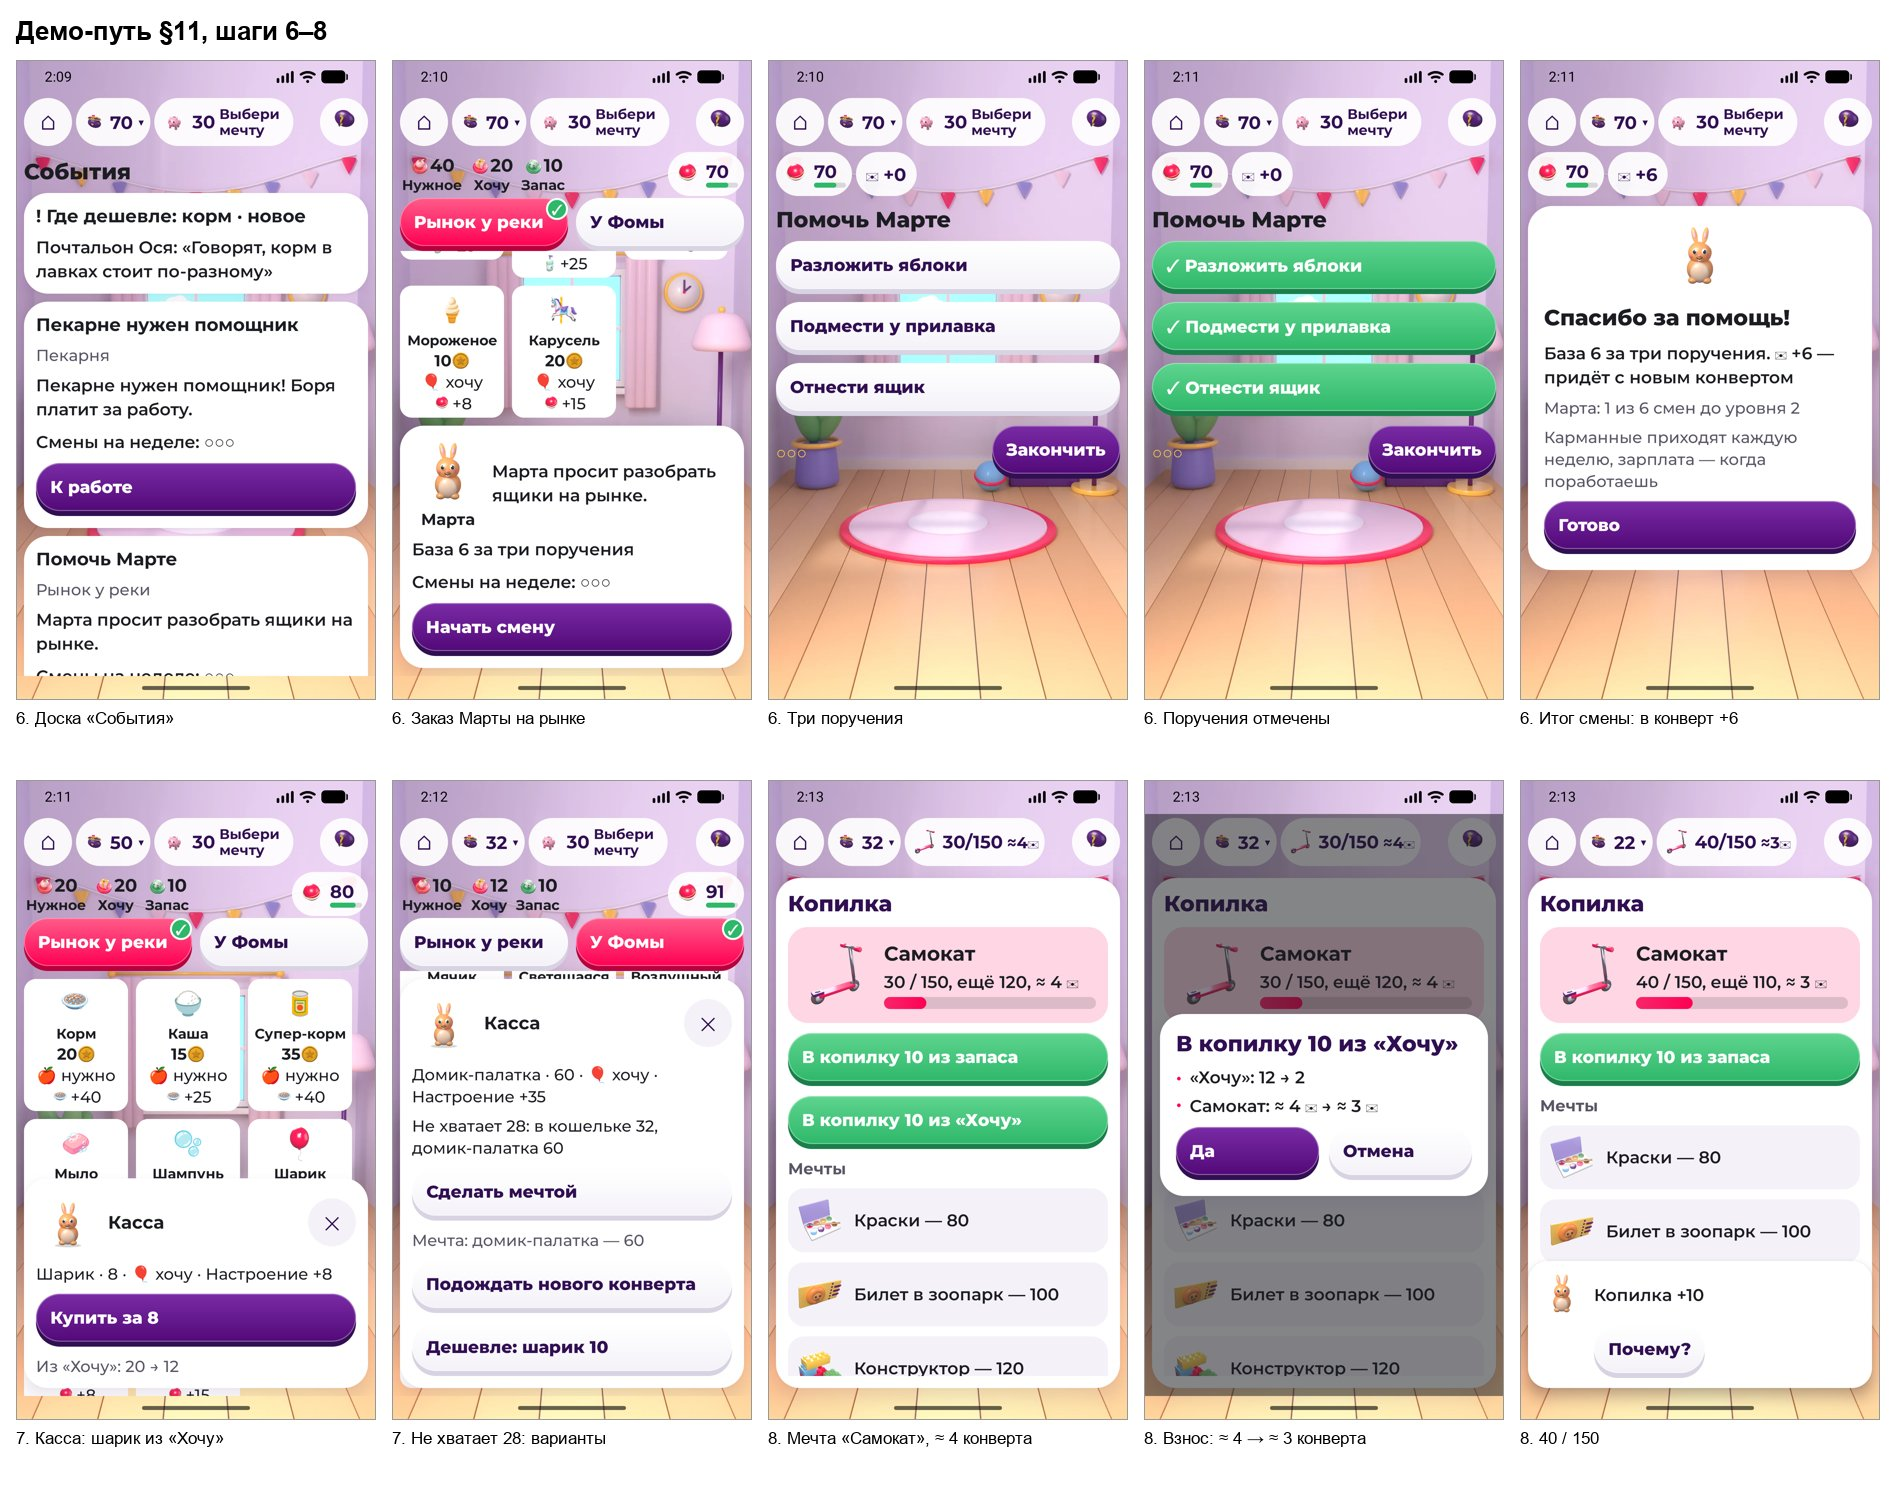
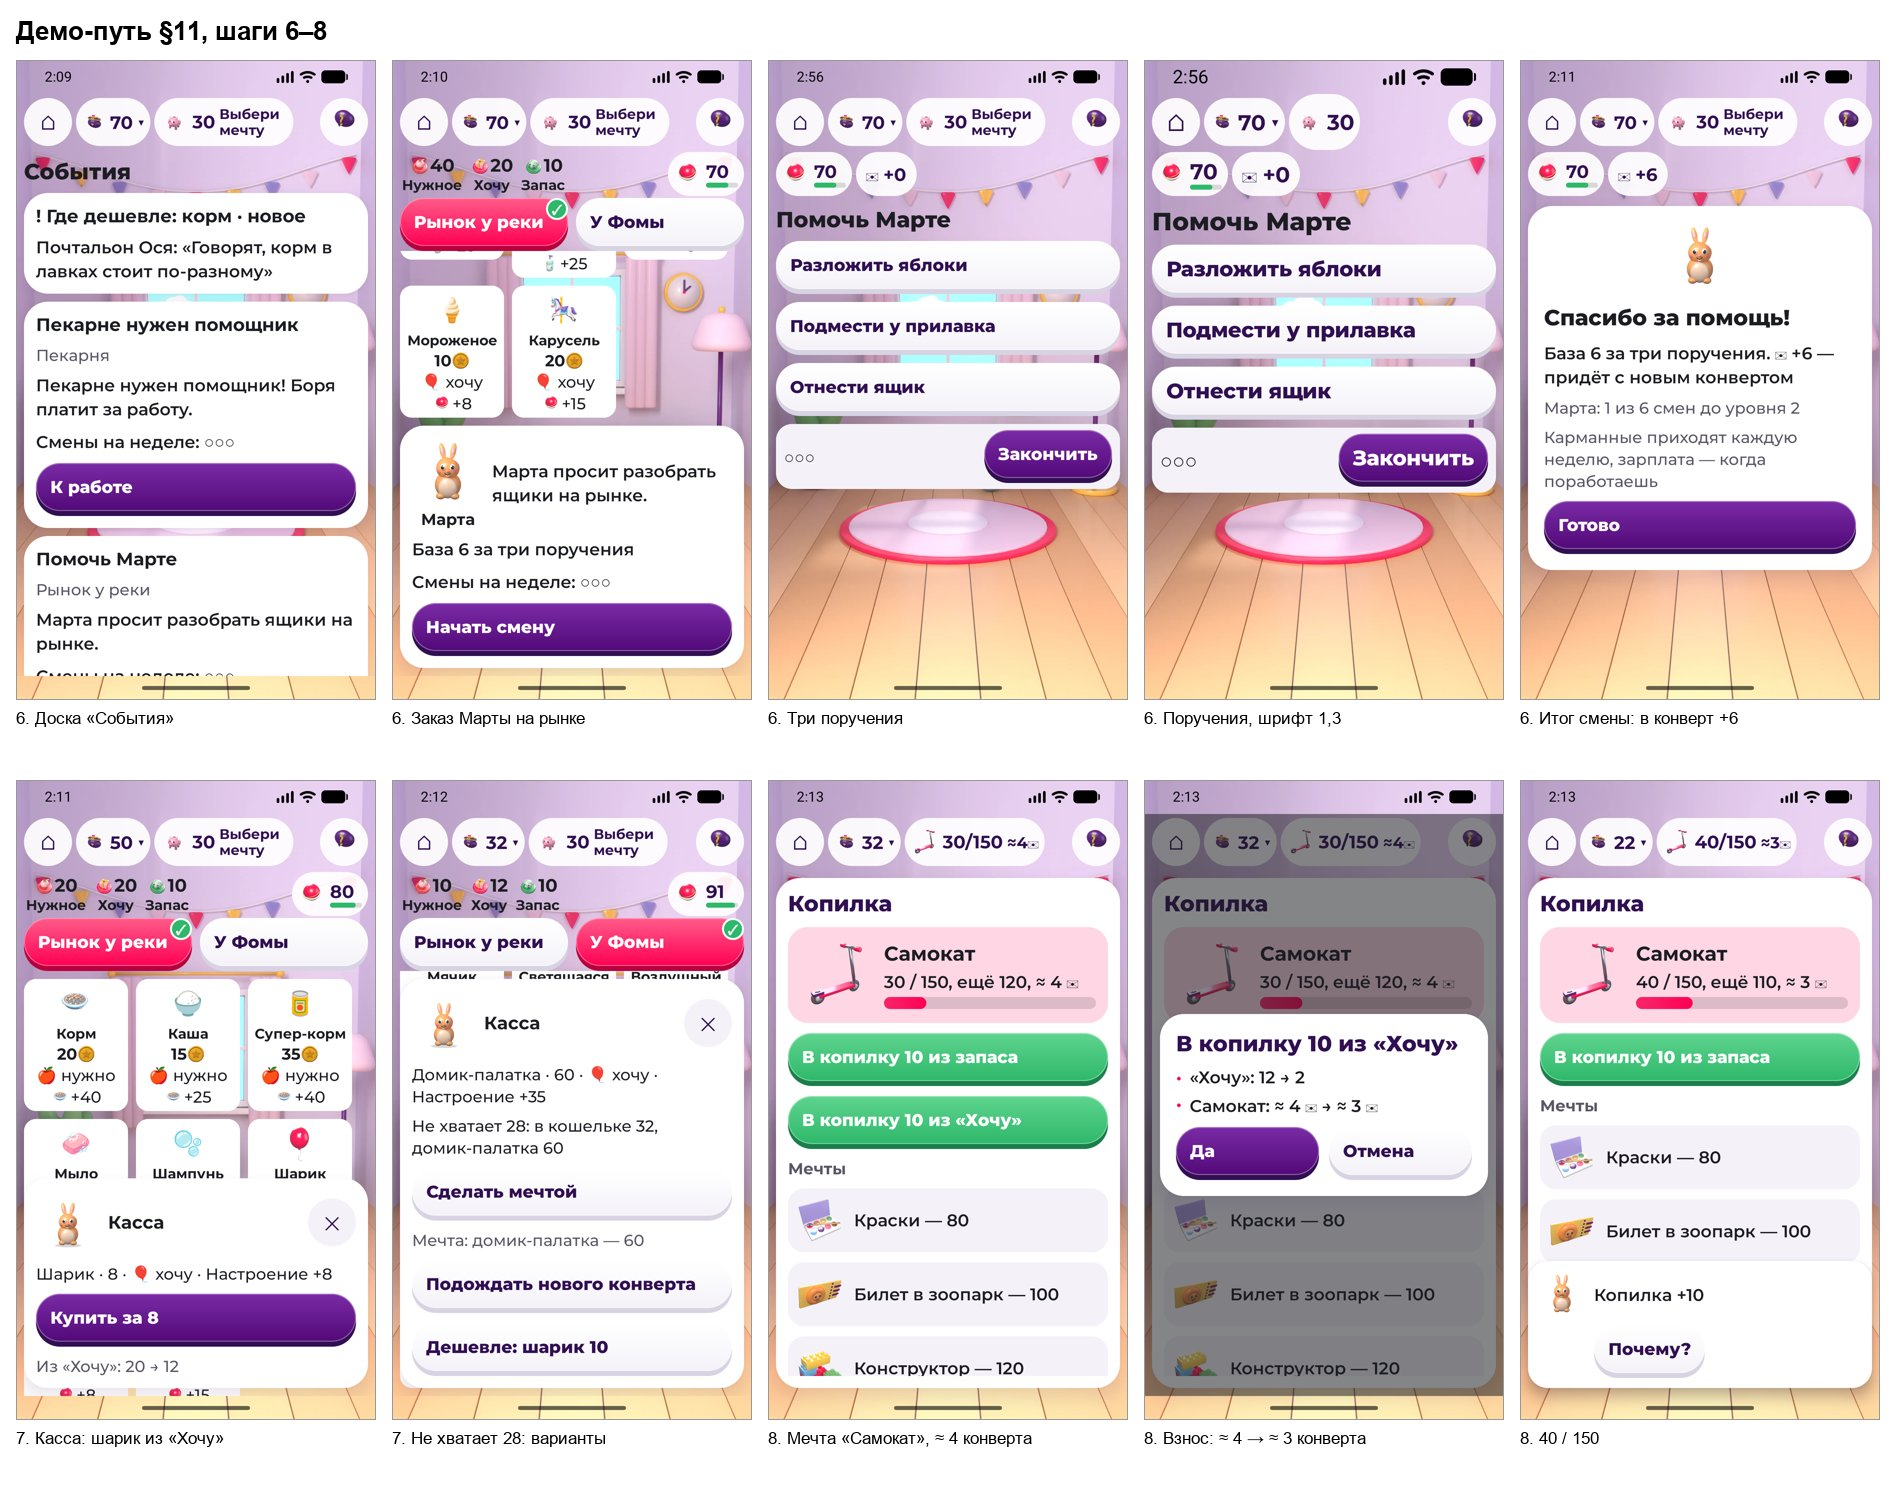
TOWN-S1d (ревью, круг 1): ряд раунда-поручений на подложке и тёмный; «Не разложено» в листе кошелька до плана = баланс − план

Changed region(s): [[0.4045, 0.0613, 0.8091, 0.3373], [0.6535, 0.46, 0.7157, 0.4907], [0.7468, 0.0307, 0.778, 0.0613]]

diff --git a/finny-pet/app/src/game/java/ru/finny/pet/game/screens/RoundScreen.kt b/finny-pet/app/src/game/java/ru/finny/pet/game/screens/RoundScreen.kt
@@ -1,5 +1,6 @@
 package ru.finny.pet.game.screens
 
+import androidx.compose.foundation.background
 import androidx.compose.foundation.layout.Arrangement
 import androidx.compose.foundation.layout.Column
 import androidx.compose.foundation.layout.Row
@@ -8,6 +9,7 @@ import androidx.compose.foundation.layout.fillMaxWidth
 import androidx.compose.foundation.layout.heightIn
 import androidx.compose.foundation.layout.padding
 import androidx.compose.foundation.rememberScrollState
+import androidx.compose.foundation.shape.RoundedCornerShape
 import androidx.compose.foundation.verticalScroll
 import androidx.compose.material3.MaterialTheme
 import androidx.compose.runtime.Composable
@@ -53,8 +55,12 @@ fun RoundScreen(vm: GameViewModel, jobId: String) {
                 vm.taps.forEachIndexed { i, done ->
                     GameButton((if (done) "✓ " else "") + job?.tasks?.getOrNull(i).orEmpty(), Modifier.fillMaxWidth(), if (done) ButtonStyle.GREEN else ButtonStyle.PAPER, minHeight = 48.dp) { vm.tapTask(i) }
                 }
-                Row(Modifier.fillMaxWidth().heightIn(min = 56.dp).testTag("job_row"), verticalAlignment = Alignment.CenterVertically, horizontalArrangement = Arrangement.spacedBy(8.dp)) {
-                    Column(Modifier.weight(1f)) { ShiftTokens(vm, label = false, color = G.gold) }
+                // paper card, dark tokens and text — same as the MATCH3 job_row (правка №12 / R9, ТЗ 3.6)
+                Row(
+                    Modifier.fillMaxWidth().heightIn(min = 56.dp).testTag("job_row").background(G.paperTint, RoundedCornerShape(16.dp)).padding(horizontal = 8.dp, vertical = 6.dp),
+                    verticalAlignment = Alignment.CenterVertically, horizontalArrangement = Arrangement.spacedBy(8.dp),
+                ) {
+                    Column(Modifier.weight(1f)) { ShiftTokens(vm, label = false, color = G.ink) }
                     GameButton("Закончить", minHeight = 48.dp) { vm.finishRound() }
                 }
             }

diff --git a/finny-pet/app/src/game/java/ru/finny/pet/game/ui/TownUi.kt b/finny-pet/app/src/game/java/ru/finny/pet/game/ui/TownUi.kt
@@ -172,7 +172,9 @@ fun Hud1(vm: GameViewModel, inPlace: Boolean, onHome: () -> Unit = vm::home) {
             }
             if (sheet) Popup(alignment = Alignment.TopStart, offset = androidx.compose.ui.unit.IntOffset(0, with(LocalDensity.current) { 52.dp.roundToPx() }), onDismissRequest = { sheet = false }) {
                 Panel(Modifier.widthIn(max = 320.dp).clickable { sheet = false }, padding = 12.dp) {
-                    TText(if (s.plan.confirmed) "Нужное ${s.jarNeed} · Хочу ${s.jarWant} · Запас ${s.reserve}" else "Не разложено ${s.reserve}")
+                    // before the plan: balance − plan.total (UNALLOC, §D.1/§E.2), not reserve — reserve == balance until
+                    // confirmPlan sets jarNeed/jarWant, so «Не разложено» used to show the wrong number here (R10)
+                    TText(if (s.plan.confirmed) "Нужное ${s.jarNeed} · Хочу ${s.jarWant} · Запас ${s.reserve}" else "Не разложено ${s.balance - s.plan.total}")
                     val mail = s.envelope.sumOf { it.amount }
                     if (s.envelope.isNotEmpty()) TText("✉ +$mail")
                 }
